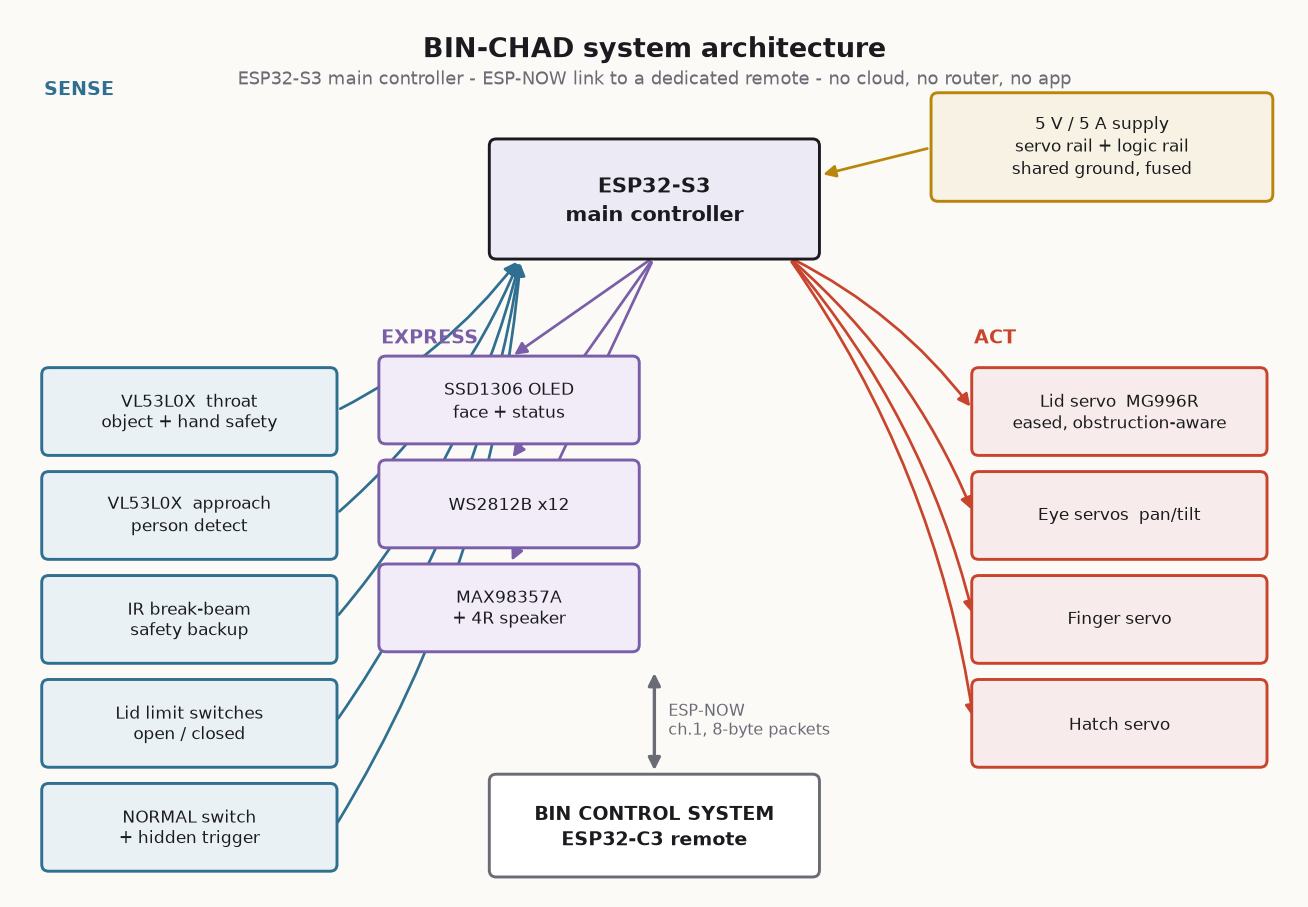
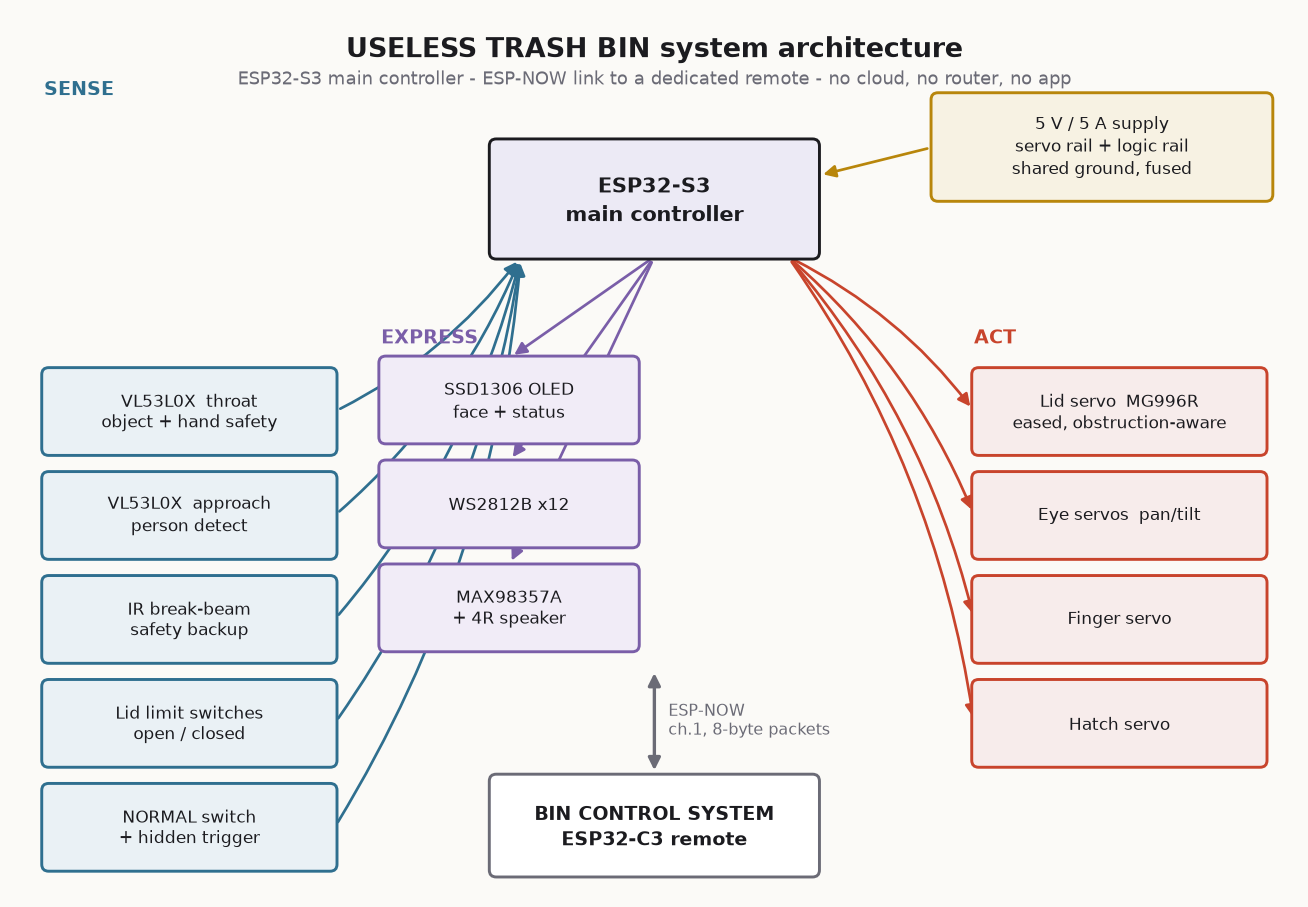
Rename the project to USELESS TRASH BIN
Renames the display name everywhere it appears as a name: the README title
and team name, the other documents, the source comments, the serial banner,
and the two generated diagram titles (docs/architecture.png and
docs/state-machine.png re-rendered).

The OLED boot screen is now two lines. At text size 2 a glyph is 12 px wide,
so seventeen characters would have been 204 px on a 128 px panel.

Internal identifiers and the firmware/BinChad/ folder keep the old working
name: Arduino couples a sketch folder to its .ino, and renaming it would
break every include path for no benefit. The naming note at the end of the
README says so.

tools/verify_project.py passes - 47 relative doc links, both protocol.h
copies still byte-identical.

Changed region(s): [[0.2446, 0.0309, 0.7339, 0.0617]]

diff --git a/tools/render_docs.py b/tools/render_docs.py
@@ -73,7 +73,7 @@ def save(fig, name):
 
 # ===========================================================================
 def architecture():
-    fig, ax = canvas(11, 7.6, "BIN-CHAD system architecture",
+    fig, ax = canvas(11, 7.6, "USELESS TRASH BIN system architecture",
                      "ESP32-S3 main controller - ESP-NOW link to a dedicated remote - no cloud, no router, no app")
     ax.set_xlim(0, 11); ax.set_ylim(0, 7.6)
 
@@ -173,7 +173,7 @@ def wiring():
 
 # ===========================================================================
 def state_machine():
-    fig, ax = canvas(12, 8.0, "BIN-CHAD main state machine",
+    fig, ax = canvas(12, 8.0, "USELESS TRASH BIN main state machine",
                      "Every transition is millis()-driven. Nothing blocks. Safety transitions (red) preempt all others.")
     ax.set_xlim(0, 12); ax.set_ylim(0, 8)
 

diff --git a/firmware/BinChad/src/remote/protocol.h b/firmware/BinChad/src/remote/protocol.h
@@ -1,5 +1,5 @@
 // =============================================================================
-//  protocol.h - ESP-NOW link between BIN CONTROL SYSTEM v0.0001 and BIN-CHAD.
+//  protocol.h - ESP-NOW link between BIN CONTROL SYSTEM v0.0001 and USELESS TRASH BIN.
 //
 //  THIS FILE IS SHARED. It exists twice, byte-identical:
 //      firmware/BinChad/src/remote/protocol.h
@@ -15,7 +15,7 @@
 #define BINCHAD_PROTO_VERSION 1
 
 // Device id, shared by both ends. A packet with any other id is ignored,
-// so two BIN-CHADs can run in the same room by giving each pair its own id.
+// so two of these can run in the same room by giving each pair its own id.
 #define BINCHAD_DEVICE_ID 0x2A
 
 // ---------------------------------------------------------------------------

diff --git a/firmware/BinRemote/src/config/protocol.h b/firmware/BinRemote/src/config/protocol.h
@@ -1,5 +1,5 @@
 // =============================================================================
-//  protocol.h - ESP-NOW link between BIN CONTROL SYSTEM v0.0001 and BIN-CHAD.
+//  protocol.h - ESP-NOW link between BIN CONTROL SYSTEM v0.0001 and USELESS TRASH BIN.
 //
 //  THIS FILE IS SHARED. It exists twice, byte-identical:
 //      firmware/BinChad/src/remote/protocol.h
@@ -15,7 +15,7 @@
 #define BINCHAD_PROTO_VERSION 1
 
 // Device id, shared by both ends. A packet with any other id is ignored,
-// so two BIN-CHADs can run in the same room by giving each pair its own id.
+// so two of these can run in the same room by giving each pair its own id.
 #define BINCHAD_DEVICE_ID 0x2A
 
 // ---------------------------------------------------------------------------

diff --git a/firmware/TrashBotWeb/src/config/pins.h b/firmware/TrashBotWeb/src/config/pins.h
@@ -1,9 +1,9 @@
 // =============================================================================
 //  pins.h - GPIO map for TRASHBOT WEB REMOTE (plain ESP32 dev module).
 //
-//  This is NOT the BIN-CHAD pin map. BIN-CHAD is an ESP32-S3 driving servos;
-//  this board is a classic ESP32 driving an L298N and two DC motors. The two
-//  firmwares share no pins, no protocol and no wiring.
+//  This is NOT the USELESS TRASH BIN pin map. That bin is an ESP32-S3 driving
+//  servos; this board is a classic ESP32 driving an L298N and two DC motors.
+//  The two firmwares share no pins, no protocol and no wiring.
 //
 //  The assignment below is the one already proven on the bench by
 //  tests/l298n_motor_test - do not renumber it without re-running that sketch.

diff --git a/firmware/BinChad/src/ui/display.cpp b/firmware/BinChad/src/ui/display.cpp
@@ -185,9 +185,12 @@ void Display::showProgress(const char *label, uint8_t percent) {
 void Display::bootScreen() {
     if (!_ready) return;
     oled.clearDisplay();
-    drawCentered("BIN-CHAD", 6, 2);
-    drawCentered("booting...", 30, 1);
-    drawCentered("v0.0001", 50, 1);
+    // Two lines: at size 2 a glyph is 12 px wide, so 17 characters would be
+    // 204 px on a 128 px panel. "TRASH BIN" is 108 px and just fits.
+    drawCentered("USELESS", 2, 2);
+    drawCentered("TRASH BIN", 20, 2);
+    drawCentered("booting...", 42, 1);
+    drawCentered("v0.0001", 54, 1);
     oled.display();
     _mode = MODE_SELFTEST;
     _selfTestRow = 0;

diff --git a/firmware/BinChad/src/config/settings.h b/firmware/BinChad/src/config/settings.h
@@ -1,5 +1,5 @@
 // =============================================================================
-//  settings.h - every tunable number in BIN-CHAD lives here.
+//  settings.h - every tunable number in USELESS TRASH BIN lives here.
 //  Calibration procedure: see docs -> BUILD_GUIDE.md section "Calibration".
 // =============================================================================
 #pragma once

diff --git a/firmware/BinChad/src/ui/display.h b/firmware/BinChad/src/ui/display.h
@@ -1,5 +1,5 @@
 // =============================================================================
-//  display.h - 0.96" SSD1306, used as BIN-CHAD's face and status screen.
+//  display.h - 0.96" SSD1306, used as USELESS TRASH BIN's face and status screen.
 //
 //  Three render modes:
 //    FACE      an animated eye that blinks, narrows and looks around

diff --git a/firmware/BinChad/src/config/pins.h b/firmware/BinChad/src/config/pins.h
@@ -1,5 +1,5 @@
 // =============================================================================
-//  pins.h - BIN-CHAD main controller GPIO map
+//  pins.h - USELESS TRASH BIN main controller GPIO map
 //  Target: ESP32-S3-DevKitC-1 (N8R2 / N16R8), 44-pin module
 // =============================================================================
 //

diff --git a/firmware/BinChad/src/hardware/sensors.h b/firmware/BinChad/src/hardware/sensors.h
@@ -1,5 +1,5 @@
 // =============================================================================
-//  sensors.h - all of BIN-CHAD's perception, such as it is.
+//  sensors.h - all of USELESS TRASH BIN's perception, such as it is.
 //
 //  Two VL53L0X time-of-flight sensors:
 //    THROAT   - points straight down the bin opening. Detects the object

diff --git a/firmware/BinChad/src/personality/personality.h b/firmware/BinChad/src/personality/personality.h
@@ -1,5 +1,5 @@
 // =============================================================================
-//  personality.h - what BIN-CHAD is currently feeling, and how that changes
+//  personality.h - what USELESS TRASH BIN is currently feeling, and how that changes
 //  what the rest of the machine does.
 //
 //  This module owns:

diff --git a/tools/verify_project.py b/tools/verify_project.py
@@ -1,6 +1,6 @@
 #!/usr/bin/env python3
 """
-verify_project.py - static consistency checks for the BIN-CHAD repo.
+verify_project.py - static consistency checks for the USELESS TRASH BIN repo.
 
     python tools/verify_project.py
 

diff --git a/tools/make_wavs.py b/tools/make_wavs.py
@@ -1,6 +1,6 @@
 #!/usr/bin/env python3
 """
-make_wavs.py - generate placeholder sound effects for BIN-CHAD.
+make_wavs.py - generate placeholder sound effects for USELESS TRASH BIN.
 
     python tools/make_wavs.py
 
